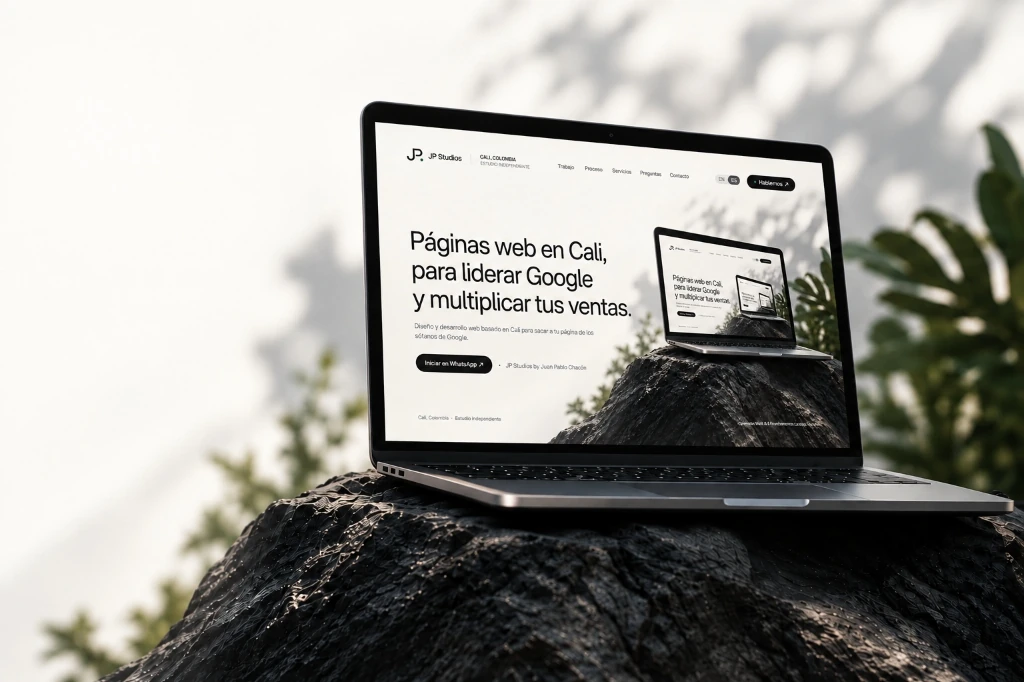
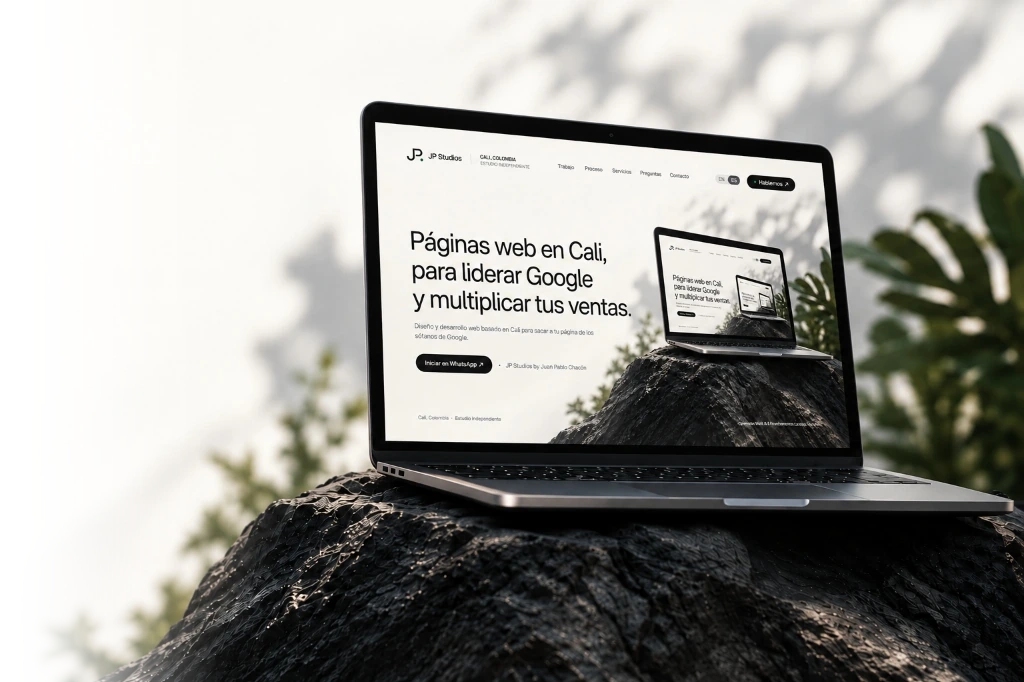
feat(hero): mirror exact full-bleed device scene with organic rock bleed and crisp left text

Changed region(s): [[0.0, 0.8622, 0.1875, 1.0]]

diff --git a/src/components/sections/Hero.tsx b/src/components/sections/Hero.tsx
@@ -119,101 +119,93 @@ export const Hero: React.FC = () => {
       ref={containerRef}
       className="relative min-h-[calc(100vh-6.5rem)] min-h-[calc(100dvh-6.5rem)] flex flex-col justify-between border-b border-black/[0.08] overflow-hidden"
     >
+      {/* Immersive Right-Bleed MacBook Device & Volcanic Rock Specimen */}
+      <div
+        ref={portraitRef}
+        className="absolute right-0 top-0 bottom-0 w-full sm:w-[85%] md:w-[75%] lg:w-[64%] xl:w-[58%] 2xl:w-[54%] pointer-events-none select-none overflow-hidden z-0"
+        aria-hidden="true"
+      >
+        <img
+          src="/hero-device.webp"
+          alt="Diseño y desarrollo web en Cali — JP Studios en MacBook"
+          fetchPriority="high"
+          decoding="async"
+          className="w-full h-full object-cover object-[right_bottom] [mask-image:linear-gradient(to_right,transparent_0%,rgba(0,0,0,0.05)_10%,black_28%)] [-webkit-mask-image:linear-gradient(to_right,transparent_0%,rgba(0,0,0,0.05)_10%,black_28%)]"
+        />
+      </div>
+
       {/* Editorial Content Container */}
-      <div className="max-w-[1400px] w-full mx-auto px-6 sm:px-12 flex-1 flex flex-col justify-center py-8 sm:py-12 lg:py-14">
+      <div className="relative z-10 max-w-[1400px] w-full mx-auto px-6 sm:px-12 flex-1 flex flex-col justify-center py-8 sm:py-12 lg:py-14">
         
-        {/* Asymmetric Split: Left Text + Right Device Showcase Specimen */}
-        <div className="w-full flex flex-col lg:flex-row items-center justify-between gap-10 lg:gap-8 xl:gap-14">
-          
-          {/* Left Column: Monumental Value & Commercial Proposition */}
-          <div className="w-full lg:w-[58%] xl:w-[60%] flex flex-col justify-center min-w-0 pr-0 lg:pr-2">
-            <h1 
-              aria-label="Páginas web en Cali para liderar Google y multiplicar tus ventas — JP Studios"
-              className="space-y-1 sm:space-y-2 lg:space-y-2.5 select-none m-0 font-medium tracking-[-0.03em] text-black"
-            >
-              {/* Line 1: Páginas web en Cali, */}
-              <span className="block">
-                <span
-                  ref={line1Ref}
-                  className="inline-block text-3xl sm:text-5xl md:text-6xl lg:text-[3.1vw] xl:text-[3.5vw] 2xl:text-[3.75rem] font-medium font-display leading-[1.04] sm:leading-[1.06] cursor-default will-change-transform whitespace-nowrap"
-                  data-interactive
-                >
-                  <span className="inline-block transition-transform duration-300 hover:scale-[1.01] origin-left">
-                    {t.hero.headlineLine1}
-                  </span>
-                </span>
-              </span>
-
-              {/* Line 2 with asymmetric indent: para liderar Google */}
-              <span className="block pl-[1.85em]">
-                <span
-                  ref={line2Ref}
-                  className="inline-block text-3xl sm:text-5xl md:text-6xl lg:text-[3.1vw] xl:text-[3.5vw] 2xl:text-[3.75rem] font-medium font-display leading-[1.04] sm:leading-[1.06] cursor-default will-change-transform whitespace-nowrap"
-                  data-interactive
-                >
-                  <span className="inline-block transition-transform duration-300 hover:scale-[1.01] origin-left">
-                    {t.hero.headlineLine2}
-                  </span>
-                </span>
-              </span>
-
-              {/* Line 3: y multiplicar tus ventas. */}
-              <span className="block">
-                <span
-                  ref={line3Ref}
-                  className="inline-block text-3xl sm:text-5xl md:text-6xl lg:text-[3.1vw] xl:text-[3.5vw] 2xl:text-[3.75rem] font-medium font-display leading-[1.04] sm:leading-[1.06] cursor-default will-change-transform whitespace-nowrap"
-                  data-interactive
-                >
-                  <span className="inline-block transition-transform duration-300 hover:scale-[1.01] origin-left">
-                    {t.hero.headlineLine3}
-                  </span>
-                </span>
-              </span>
-            </h1>
-
-            {/* Subtitle & Value Proposition */}
-            <p className="text-sm sm:text-base md:text-[1.05rem] text-black/75 font-sans leading-relaxed max-w-md pt-8 sm:pt-10">
-              {t.hero.subtitle}
-            </p>
-
-            {/* Action & Author Signature Lockup */}
-            <div className="pt-6 sm:pt-8 flex flex-wrap items-center gap-4 sm:gap-5">
-              <a
-                href={siteConfig.profile.contact.whatsapp}
-                target="_blank"
-                rel="noopener noreferrer"
-                className="px-6 sm:px-7 py-3 rounded-full bg-[#141517] hover:bg-black text-white text-xs sm:text-sm font-sans font-medium flex items-center gap-2 shadow-xs transition-all duration-200 active:scale-95 group"
+        {/* Left Column: Monumental Value & Commercial Proposition */}
+        <div className="w-full max-w-xl lg:max-w-2xl xl:max-w-3xl flex flex-col justify-center min-w-0">
+          <h1 
+            aria-label="Páginas web en Cali para liderar Google y multiplicar tus ventas — JP Studios"
+            className="space-y-1 sm:space-y-2 lg:space-y-2.5 select-none m-0 font-medium tracking-[-0.03em] text-black"
+          >
+            {/* Line 1: Páginas web en Cali, */}
+            <span className="block">
+              <span
+                ref={line1Ref}
+                className="inline-block text-3xl sm:text-5xl md:text-6xl lg:text-[3.5vw] xl:text-[3.8vw] 2xl:text-[3.85rem] font-medium font-display leading-[1.04] sm:leading-[1.06] cursor-default will-change-transform whitespace-nowrap"
                 data-interactive
               >
-                <span>{t.intro.startOnWhatsApp}</span>
-                <span className="text-xs transition-transform duration-200 group-hover:translate-x-0.5 group-hover:-translate-y-0.5">
-                  ↗
+                <span className="inline-block transition-transform duration-300 hover:scale-[1.01] origin-left">
+                  {t.hero.headlineLine1}
                 </span>
-              </a>
+              </span>
+            </span>
 
-              <div className="text-xs sm:text-sm font-sans text-black/55 font-medium flex items-center gap-2">
-                <span className="w-1.5 h-1.5 rounded-full bg-black/35" />
-                <span>{t.hero.signature}</span>
-              </div>
-            </div>
-          </div>
+            {/* Line 2 with asymmetric indent: para liderar Google */}
+            <span className="block pl-[1.85em]">
+              <span
+                ref={line2Ref}
+                className="inline-block text-3xl sm:text-5xl md:text-6xl lg:text-[3.5vw] xl:text-[3.8vw] 2xl:text-[3.85rem] font-medium font-display leading-[1.04] sm:leading-[1.06] cursor-default will-change-transform whitespace-nowrap"
+                data-interactive
+              >
+                <span className="inline-block transition-transform duration-300 hover:scale-[1.01] origin-left">
+                  {t.hero.headlineLine2}
+                </span>
+              </span>
+            </span>
 
-          {/* Right Column: Interactive Device Showcase Specimen */}
-          <div className="w-full lg:w-[42%] xl:w-[40%] flex items-center justify-center lg:justify-end mt-6 lg:mt-0">
-            <div
-              ref={portraitRef}
-              className="relative w-full max-w-[480px] lg:max-w-none rounded-2xl sm:rounded-3xl overflow-hidden border border-black/[0.08] shadow-[0_20px_50px_rgba(0,0,0,0.08)] bg-[#fafaf8] aspect-[3/2] group"
+            {/* Line 3: y multiplicar tus ventas. */}
+            <span className="block">
+              <span
+                ref={line3Ref}
+                className="inline-block text-3xl sm:text-5xl md:text-6xl lg:text-[3.5vw] xl:text-[3.8vw] 2xl:text-[3.85rem] font-medium font-display leading-[1.04] sm:leading-[1.06] cursor-default will-change-transform whitespace-nowrap"
+                data-interactive
+              >
+                <span className="inline-block transition-transform duration-300 hover:scale-[1.01] origin-left">
+                  {t.hero.headlineLine3}
+                </span>
+              </span>
+            </span>
+          </h1>
+
+          {/* Subtitle & Value Proposition */}
+          <p className="text-sm sm:text-base md:text-[1.05rem] text-black/75 font-sans leading-relaxed max-w-md pt-8 sm:pt-10">
+            {t.hero.subtitle}
+          </p>
+
+          {/* Action & Author Signature Lockup */}
+          <div className="pt-6 sm:pt-8 flex flex-wrap items-center gap-4 sm:gap-5">
+            <a
+              href={siteConfig.profile.contact.whatsapp}
+              target="_blank"
+              rel="noopener noreferrer"
+              className="px-6 sm:px-7 py-3 rounded-full bg-[#141517] hover:bg-black text-white text-xs sm:text-sm font-sans font-medium flex items-center gap-2 shadow-xs transition-all duration-200 active:scale-95 group"
               data-interactive
             >
-              <img
-                src="/hero-device.webp"
-                alt="Diseño y desarrollo web en Cali — JP Studios en MacBook"
-                width={1024}
-                height={682}
-                fetchPriority="high"
-                decoding="async"
-                className="w-full h-full object-cover transition-transform duration-700 ease-out group-hover:scale-[1.03]"
-              />
+              <span>{t.intro.startOnWhatsApp}</span>
+              <span className="text-xs transition-transform duration-200 group-hover:translate-x-0.5 group-hover:-translate-y-0.5">
+                ↗
+              </span>
+            </a>
+
+            <div className="text-xs sm:text-sm font-sans text-black/55 font-medium flex items-center gap-2">
+              <span className="w-1.5 h-1.5 rounded-full bg-black/35" />
+              <span>{t.hero.signature}</span>
             </div>
           </div>
         </div>
@@ -221,13 +213,13 @@ export const Hero: React.FC = () => {
       </div>
 
       {/* Clean Bottom Orientation Bar */}
-      <div className="max-w-[1400px] w-full mx-auto px-6 sm:px-12 pb-8 sm:pb-10 flex items-center justify-between text-xs font-sans text-black/55 select-none">
-        <div className="flex items-center gap-2">
+      <div className="relative z-10 max-w-[1400px] w-full mx-auto px-6 sm:px-12 pb-8 sm:pb-10 flex items-center justify-between text-xs font-sans select-none">
+        <div className="flex items-center gap-2 text-black/55">
           <span>{siteConfig.profile.location}</span>
           <span className="text-black/30">•</span>
           <span>{t.hero.studioType}</span>
         </div>
-        <div className="font-sans text-xs">
+        <div className="font-sans text-xs text-black/55 lg:text-white/80 transition-colors drop-shadow-xs">
           {t.hero.role}
         </div>
       </div>
